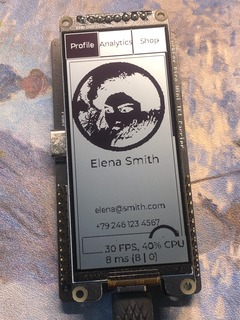
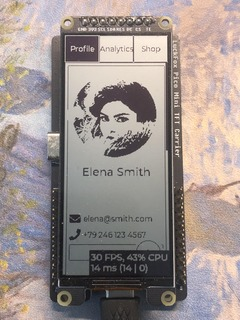
update assets, set st7305 to invert mode

diff --git a/st7305.c b/st7305.c
@@ -156,6 +156,7 @@ static void st7305_pipe_enable(struct drm_simple_display_pipe *pipe,
 	mipi_dbi_command(dbi, 0xD0, 0xFF); // Auto power down
 	mipi_dbi_command(dbi, 0x38); // High Power Mode on
 	mipi_dbi_command(dbi, 0xBB, 0x4F); // Enable Clear RAM
+	mipi_dbi_command(dbi, MIPI_DCS_ENTER_INVERT_MODE);
 	mipi_dbi_command(dbi, MIPI_DCS_SET_DISPLAY_ON);
 
 	st7305->desc->init_seq(st7305);

diff --git a/README.md b/README.md
@@ -22,7 +22,7 @@ https://github.com/user-attachments/assets/9526318e-5c00-406e-a91f-2dd308e9b231
 
 ## Get Started
 
-The fllowing steps assume you are using YDP420H001-V3 as the display.
+The fllowing steps assume you are using YDP290H001-V3 as the display.
 
 ### 1. Setup Luckfox Pico SDK
 
@@ -98,8 +98,8 @@ if you are using other display, modify the compatible string in the dts file(`rv
 
 		// compatible = "osptek,ydp154h008-v3";
 		// compatible = "osptek,ydp213h001-v3";
-		// compatible = "osptek,ydp290h001-v3";
-		compatible = "osptek,ydp420h001-v3";
+		compatible = "osptek,ydp290h001-v3";
+		// compatible = "osptek,ydp420h001-v3";
 
 		...
 	};
